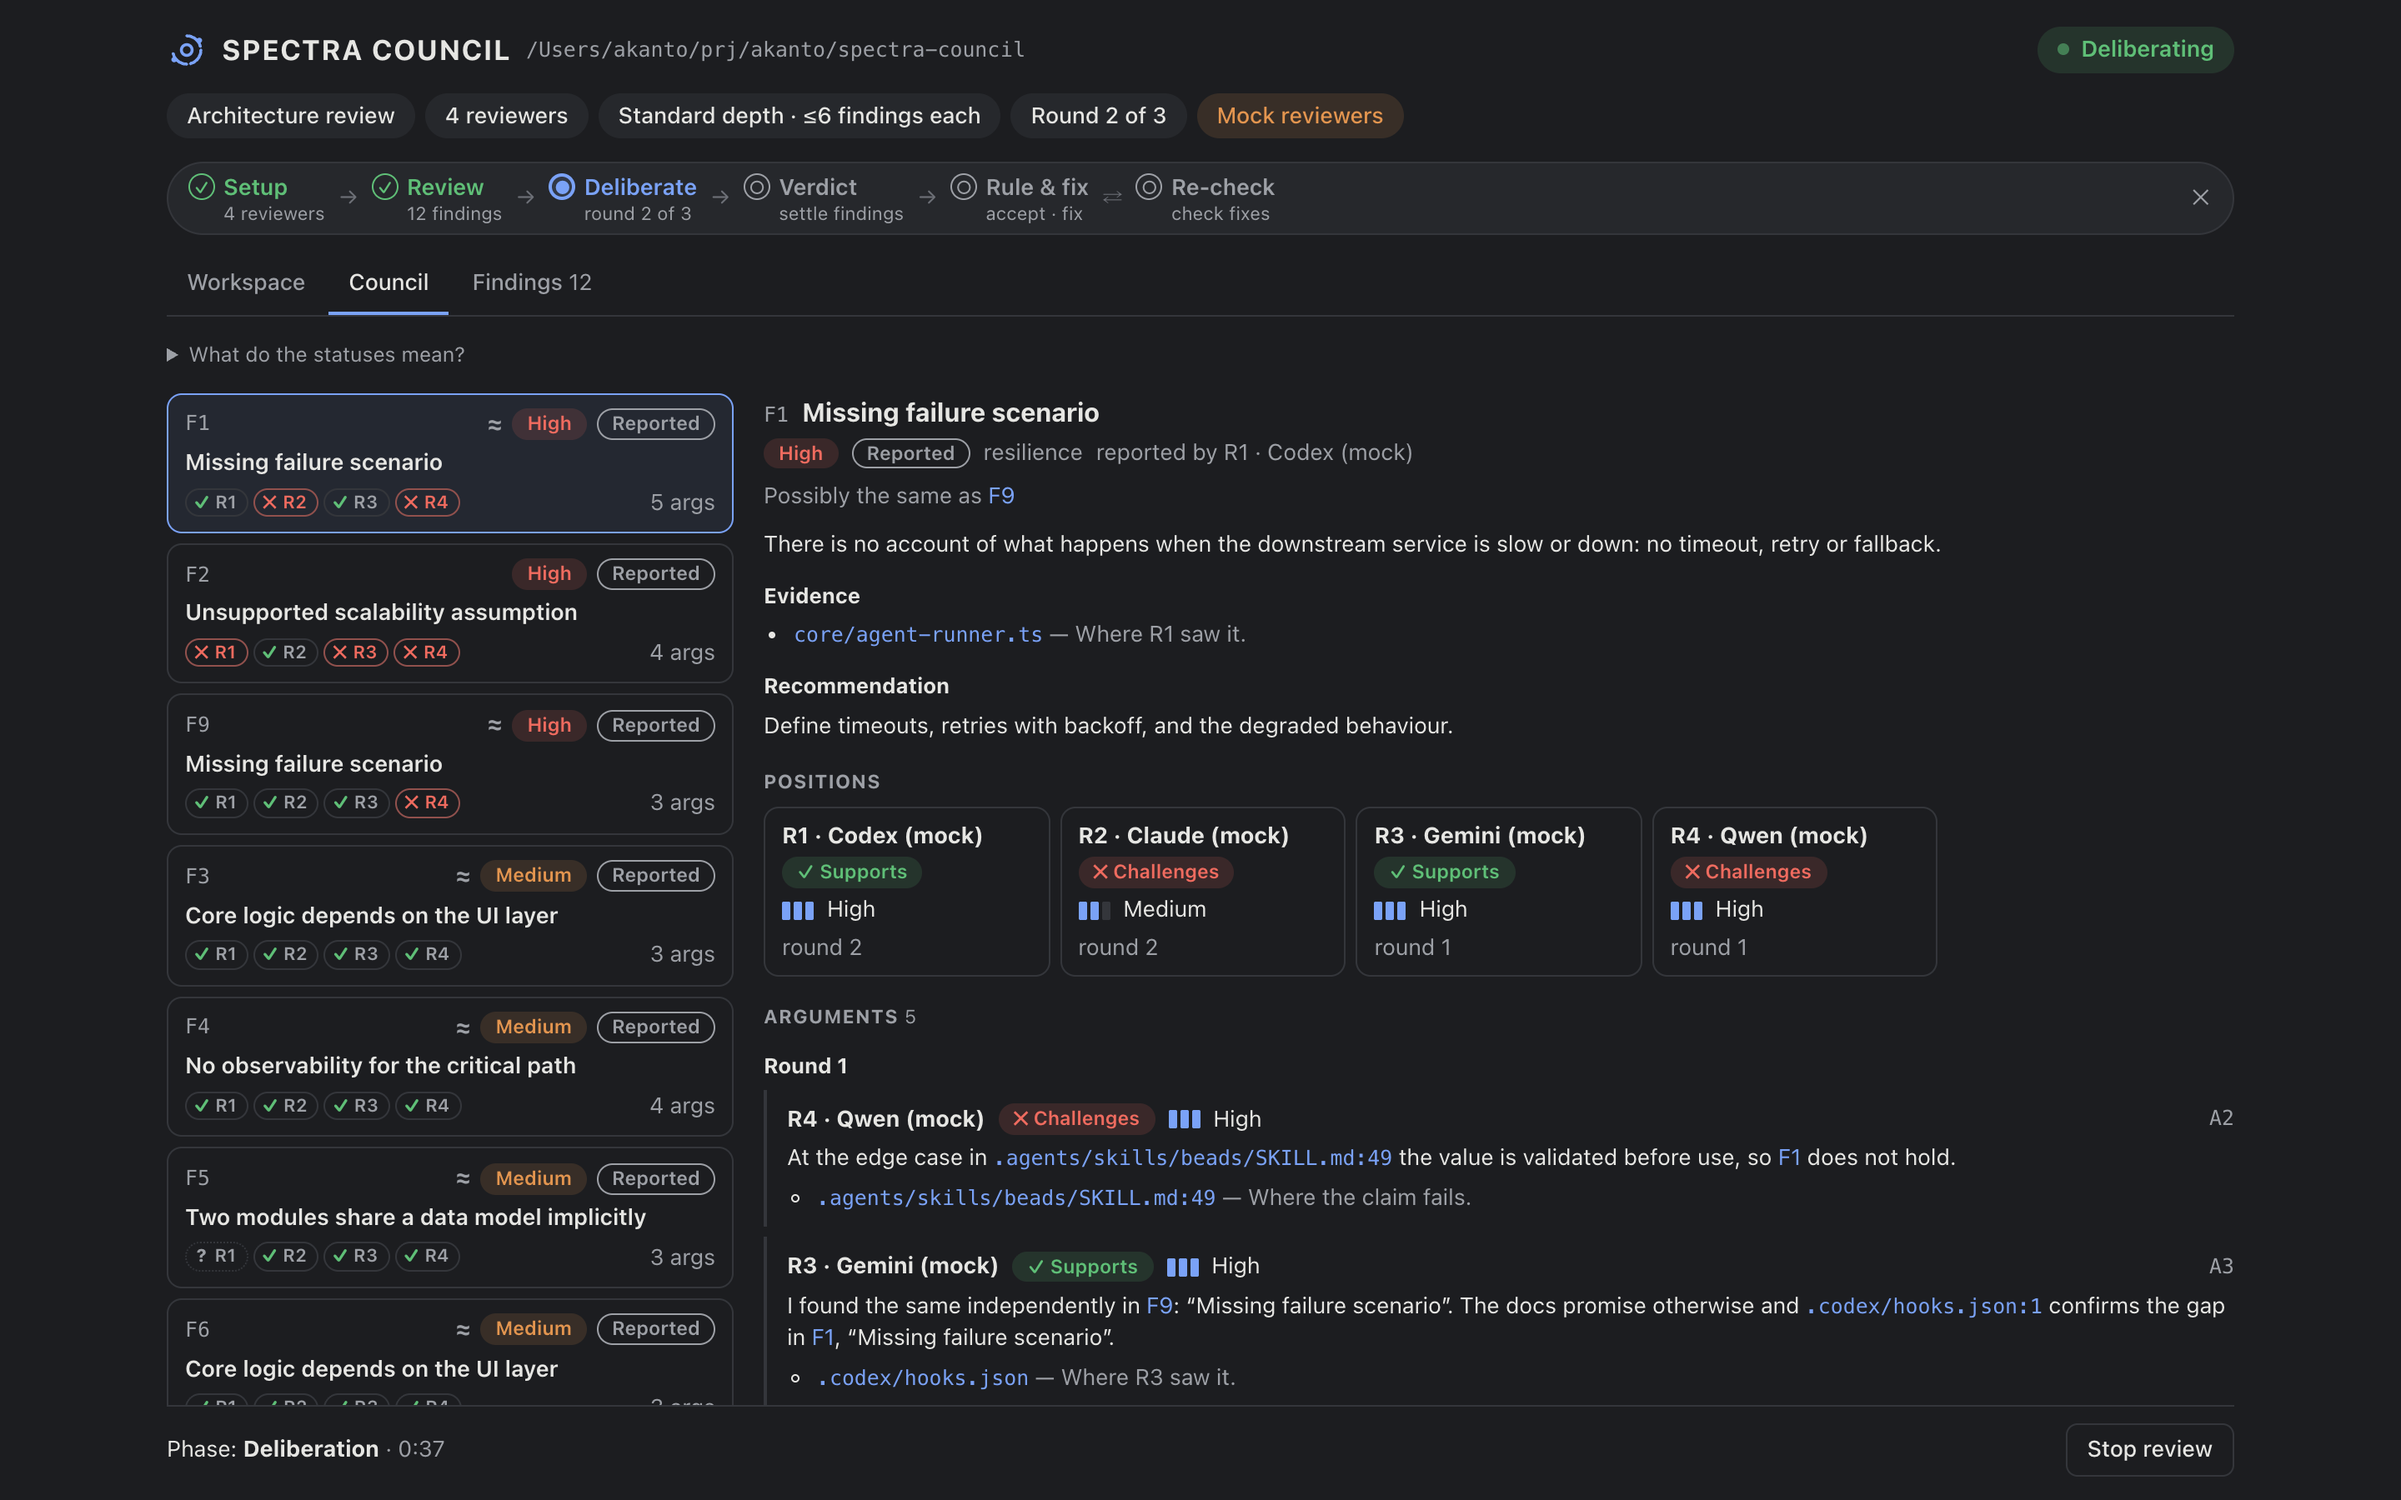
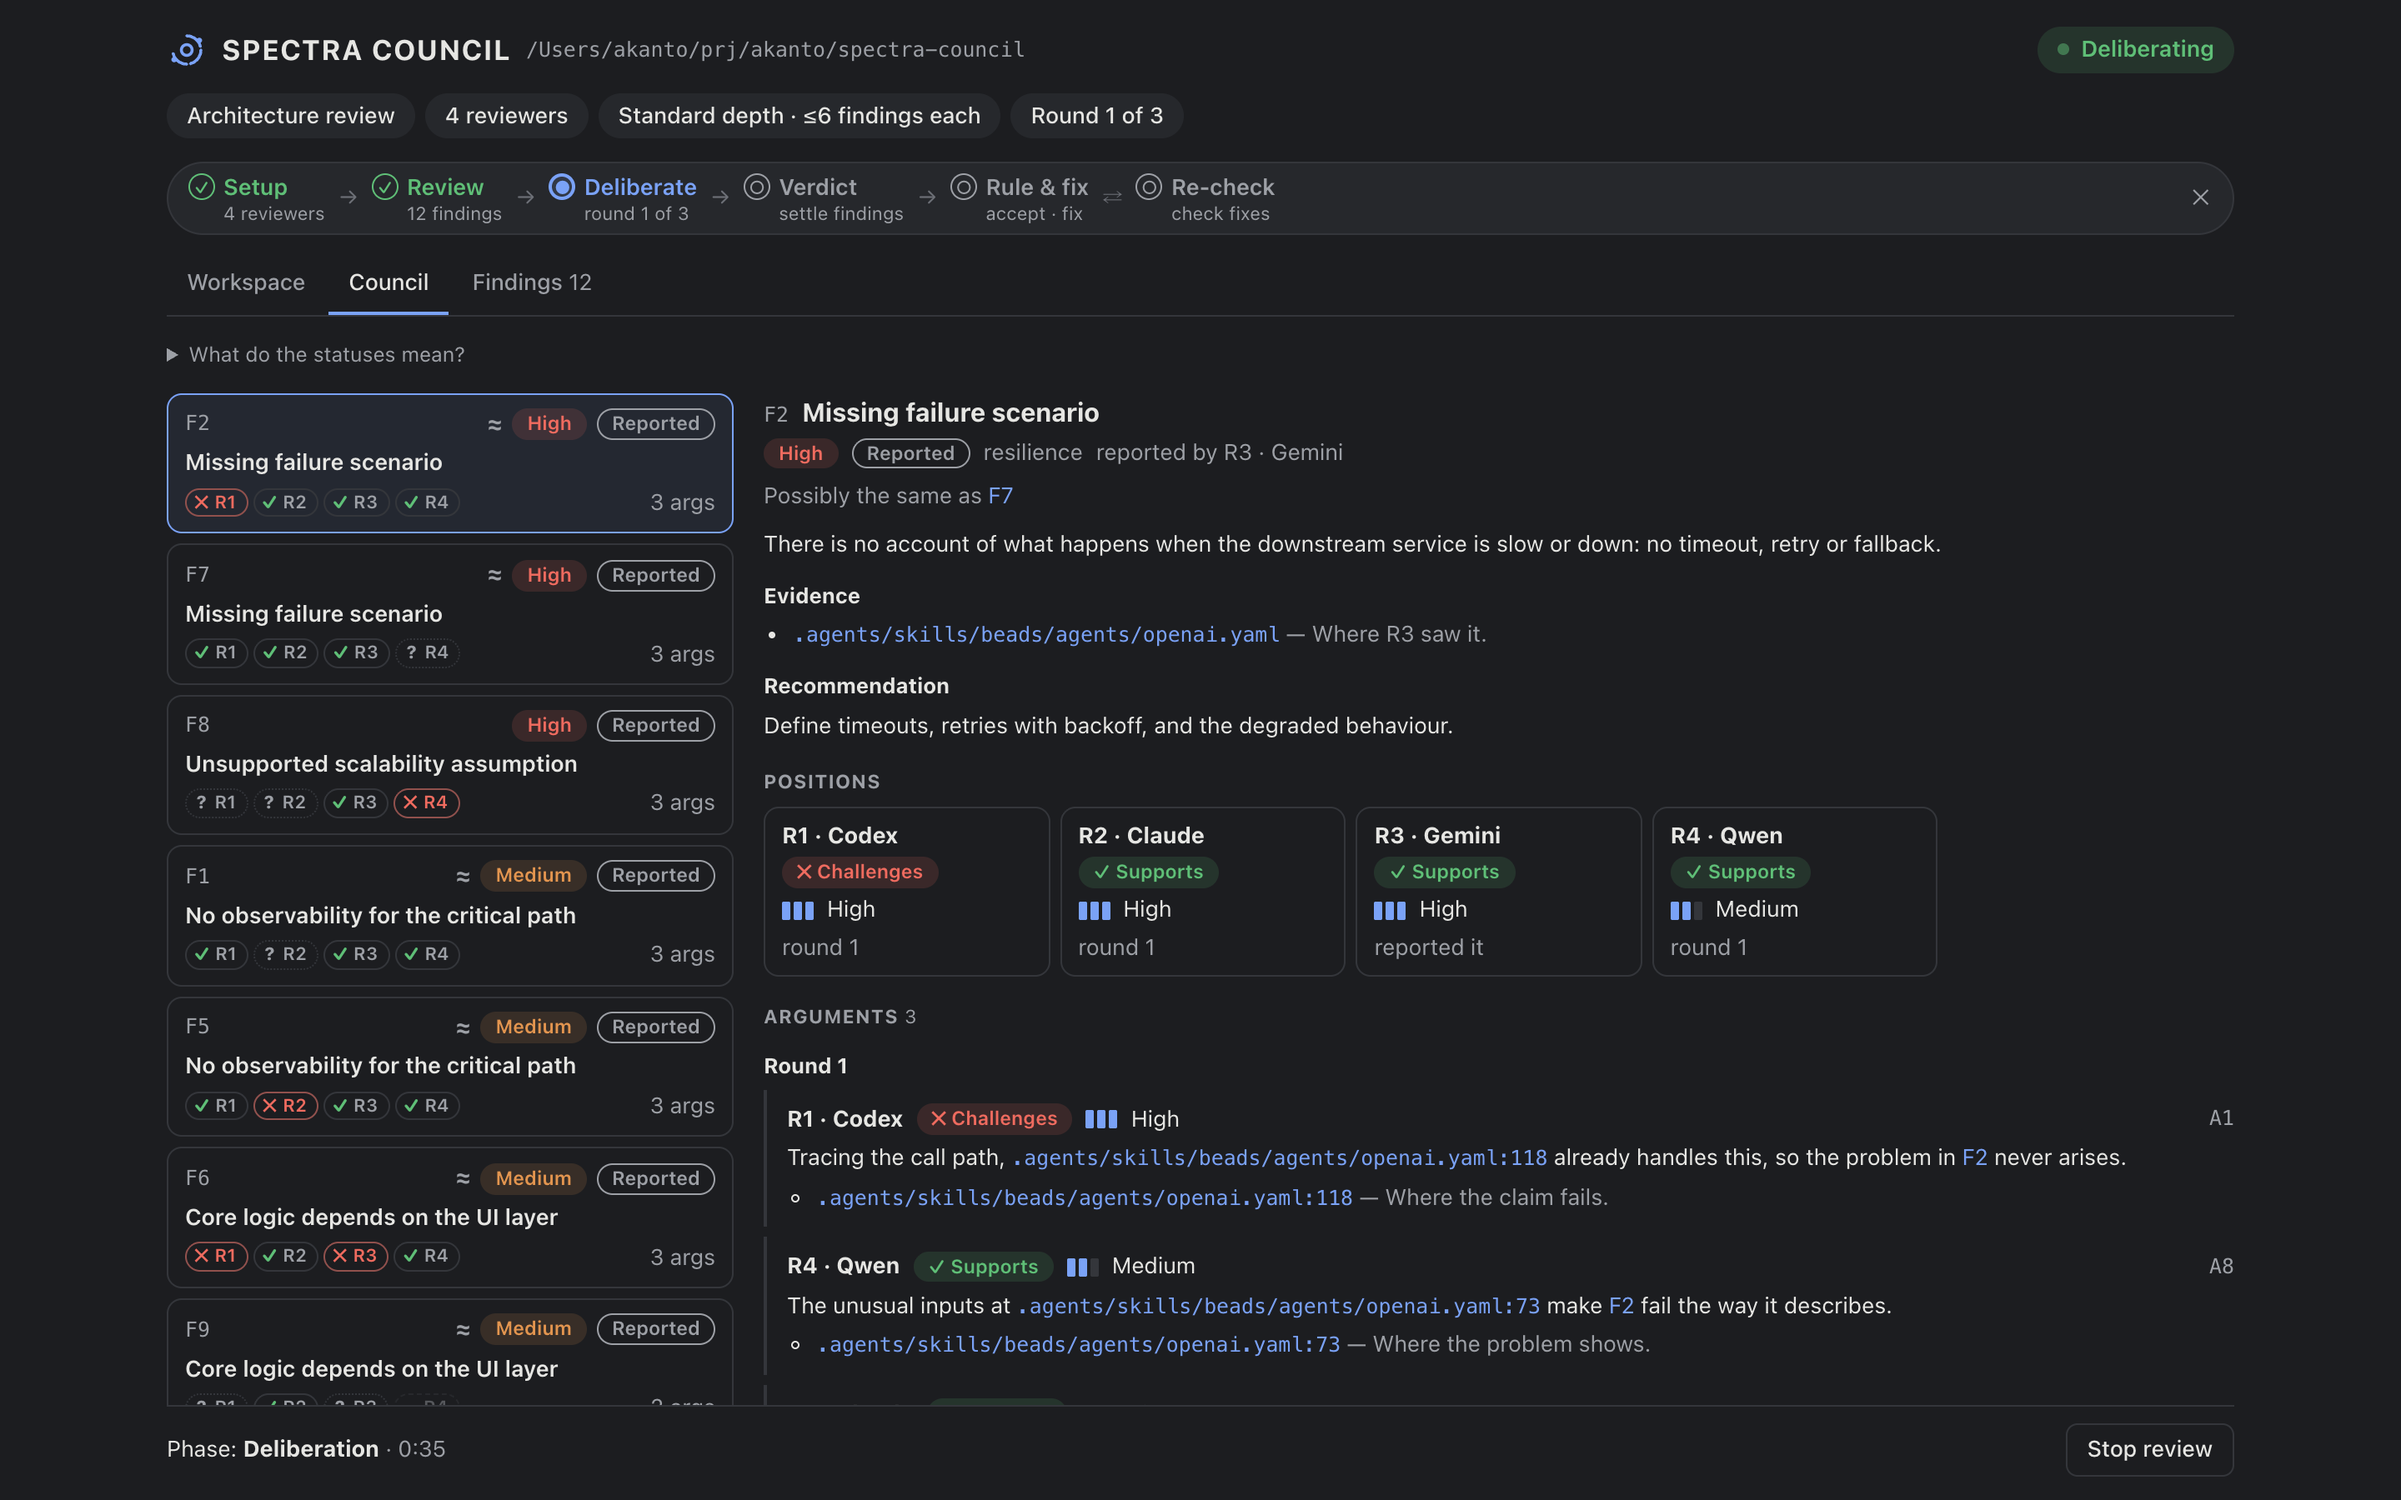
Name the seats in the catalog's screenshots as real profiles are
The catalog pictures showed "R1 · Codex (mock)" and a Mock reviewers
chip. The dark tour now strips both for those three shots only, keeping
them off while the live view re-renders.

diff --git a/scripts/screenshots.ts b/scripts/screenshots.ts
@@ -31,6 +31,19 @@ async function tour(theme: "light" | "dark") {
   const catalogShot = async (name: string, top?: string) => {
     if (theme !== "dark") return;
     await page.setViewportSize({ width: 1440, height: 900 });
+    // The catalog's pictures name the seats as a review on real profiles does: no "(mock)", no mock chip. An observer
+    // keeps the live view's re-renders from bringing them back before the picture is taken.
+    await page.evaluate(() => {
+      const strip = (root: Node) => {
+        const walker = document.createTreeWalker(root, NodeFilter.SHOW_TEXT);
+        for (let node = walker.nextNode(); node; node = walker.nextNode()) if (node.nodeValue?.includes(" (mock)")) node.nodeValue = node.nodeValue.replaceAll(" (mock)", "");
+      };
+      strip(document.body);
+      const observer = new MutationObserver((changes) => { for (const change of changes) strip(change.target); });
+      observer.observe(document.body, { subtree: true, childList: true, characterData: true });
+      (window as unknown as { catalogObserver?: MutationObserver }).catalogObserver = observer;
+      document.head.insertAdjacentHTML("beforeend", '<style id="catalog-style">.chip.mock { display: none !important; }</style>');
+    });
     await page.waitForTimeout(300);
     await page.evaluate((selector) => {
       const element = selector ? document.querySelector(selector) : null;
@@ -38,6 +51,10 @@ async function tour(theme: "light" | "dark") {
     }, top ?? null);
     await page.waitForTimeout(200);
     await page.screenshot({ path: join(catalogOut, `${name}.png`) });
+    await page.evaluate(() => {
+      (window as unknown as { catalogObserver?: MutationObserver }).catalogObserver?.disconnect();
+      document.getElementById("catalog-style")?.remove();
+    });
     await page.setViewportSize({ width: 960, height: 900 });
   };
 

diff --git a/screenshots/README.md b/screenshots/README.md
@@ -1,7 +1,7 @@
 # Screenshots
 
 The plugin catalog's pictures, made by `bun scripts/screenshots.ts` (harness running): its dark tour takes them at
-1440x900 with mock reviewers. The catalog links them at a release tag, so take them again before a release when the view
+1440x900 with mock reviewers, named as seats on real profiles are: no "(mock)", no mock chip. The catalog links them at a release tag, so take them again before a release when the view
 changes.
 
 - `workspace.png`: four reviewers investigating on their own, with the process strip and the findings coming in.
